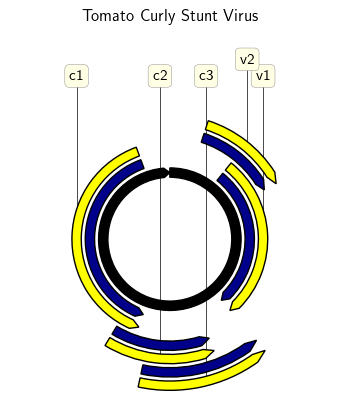
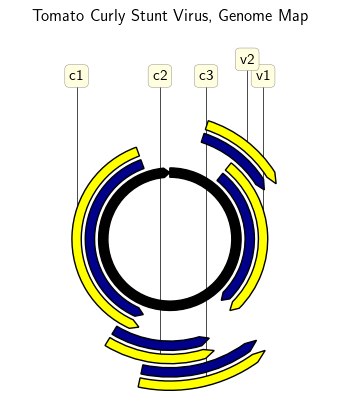
Add colors

Changed region(s): [[0.0885, 0.0, 0.9145, 0.0587]]

diff --git a/genome_map.py b/genome_map.py
@@ -4,6 +4,7 @@ import matplotlib.pyplot as plt
 from matplotlib import rc
 
 class Translator(BiopythonTranslator):
+    
     def compute_feature_color(self, feature):
         color_map = {
             "source": "black",
@@ -13,8 +14,17 @@ class Translator(BiopythonTranslator):
         
         return color_map[feature.type]
     
+    def compute_feature_box_color(self, feature):
+        color_map = {
+            "source": "white",
+            "CDS": "lightyellow",
+            "gene": "lightblue",
+        }
+        
+        return color_map[feature.type]
+    
     def compute_feature_label(self, feature):
-        if feature.type == "CDS":
+        if feature.type == "CDS": # not sure if we need to label the gene as well, can be changed if needed
             return BiopythonTranslator.compute_feature_label(self, feature)
         return None
 
@@ -23,7 +33,7 @@ def draw():
     fig, ax = plt.subplots()
     rec = Translator().translate_record("Genome.gb", record_class="circular")
     rec.plot(ax=ax, figure_width=10, strand_in_label_threshold=4)
-    plt.title("Tomato Curly Stunt Virus")
+    plt.title("Tomato Curly Stunt Virus, Genome Map")
     plt.savefig("genome_map.png", bbox_inches="tight")
     
 if __name__ == "__main__":

diff --git a/README.md b/README.md
@@ -1,5 +1,7 @@
 # Genome mapping
 
+Highlights source black, CDS yellow, and gene blue. Labels the coding sequence (CDS) for each gene.
+
 ## Libraries used
 - [DnaFeaturesViewer](https://www.biorxiv.org/content/10.1101/2020.01.09.900589v1.full.pdf)
 
